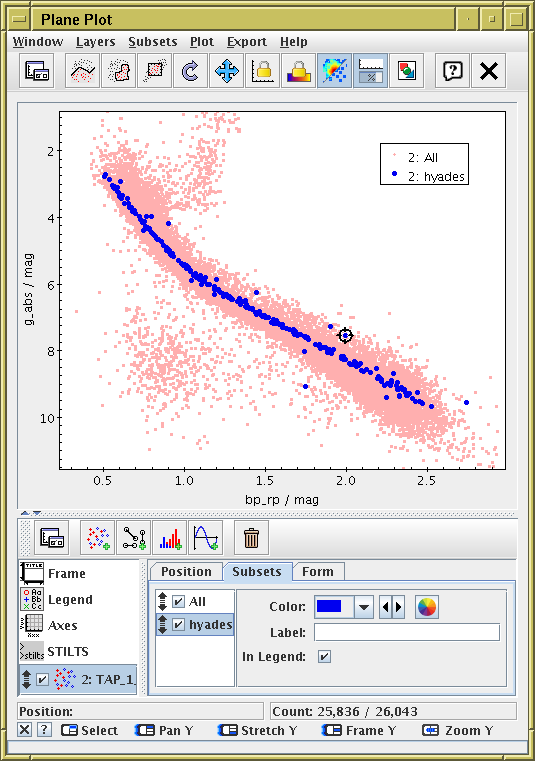
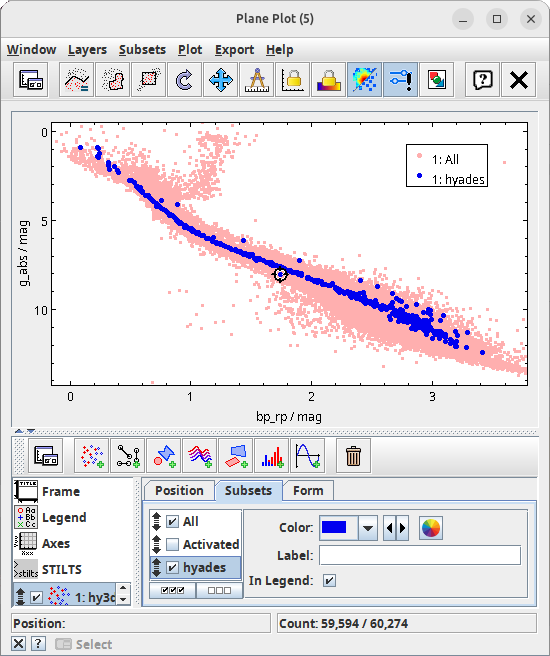
add activation actions to Hyades example

diff --git a/tctuto.tex b/tctuto.tex
@@ -292,7 +292,7 @@ So we need to make a more sophisticated query using TAP.
   \item Select table {\tt gaiadr3.gaia\_source} and look at
         \lab{Table} and \lab{Columns} tabs,
         to see information about available columns.
-  \item Look in the \lab{Service} tab to see information about the service
+% \item Look in the \lab{Service} tab to see information about the service
   \item Look in the \lab{Hints} tab for a very basic ADQL cheat sheet
   \item Type in to the bottom panel some very simple ADQL:\\
         ``{\tt SELECT TOP 10 ra, dec FROM gaiadr3.gaia\_source}''
@@ -359,7 +359,7 @@ TOPCAT's \tcmanref{jel}{\em expression language\/} can help.
         what functions TOPCAT provides
         (they are \tcmanref{generalJel}{listed in the manual} too).
   \item Look under the \lab{Gaia} entry to see astrometry-specific items
-  \item We will use the {\tt astromUVW} and maybe {\tt icrsToGal}
+  \item We will use the {\tt astromUVW(astrom6)} and maybe {\tt icrsToGal}
         and {\tt astromXYZ} functions.
         The \lab{Examples} items in the function documentation are useful;
         for use with the {\tt gaia\_source} catalogue,
@@ -398,7 +398,7 @@ TOPCAT's \tcmanref{jel}{\em expression language\/} can help.
         \entry{XYZ Vector}{uvw}.
   \item Select \entry{Mode}{\buttimg{MODE_DENSITY.png}density}
         in the \lab{Form} tab.  You can change the colour map to taste
-        using the \lab{Density Shader} selector.
+        using the \lab{Shader} selector.
   \item Now, navigate through the cube to find an overdensity.
         This takes a bit of practice, but it's fun once you work out how.
         Click the little \buttimg{navig_help.png} button at bottom left
@@ -410,7 +410,7 @@ TOPCAT's \tcmanref{jel}{\em expression language\/} can help.
         (about 200 of them? see the count at the bottom right of the window)
         are visible inside the wireframe --- these should be the Hyades,
         which all have similar 3D velocities.
-  \item Use \mb{spoints5.png}{Subsets}{Subset From Visible},
+  \item Use \mb{spoints5.png}{Subsets}{Subset From Visible} action,
         \entry{Name}{hyades}, \lab{Add Subset}.
   \end{enumerate}
 \end{minipage}
@@ -422,35 +422,35 @@ TOPCAT's \tcmanref{jel}{\em expression language\/} can help.
 
 
 \newpage
-\subsection{View positions}
 
-\begin{minipage}[t]{11cm}
+\begin{minipage}[t]{12cm}
+\raggedright
+
+\subsection{View positions}
+  \label{sec:hy-sky}
+
   \begin{enumerate}
   \item Go back and plot this subset on the sky
         (\mb{skyplot_button.png}{Graphics}{Sky Plot})
   \item Use the \lab{Subsets} tab to make sure that \lab{hyades}
         and background objects (\lab{All}) are plotted in different colours.
         You might want to set \entry{Shading Mode}{flat} and
-        fiddle with marker size and shape for clarity.
+        fiddle with marker size and shape for clarity (in the \lab{Form} tab).
   \item To get an all-sky view,
         use the \buttimg{axes_button.png} \lab{Axes} control,
         \lab{Projection} tab, and change the \lab{Projection} selector
         from ``\lab{sin}'' to ``\lab{aitoff}''
   \item If you like, you can plot it in 3-d space as well:
-        \mb{plot2sphere.png}{Graphics}{Sphere Plot},\\
+        \mb{plot2sphere.png}{Graphics}{Sphere Plot},
         \entry{Lon}{ra},
         \entry{Lat}{dec},
         \entry{Radius}{1000./parallax}
+  \item Leave any plot windows open for later.
   \end{enumerate}
-\end{minipage}
-\begin{minipage}[t]{8cm}
-  \winfig{width=8cm}{hy_sky.png}
-\end{minipage}
+
+\vspace*{0.5cm}
 
 \subsection{Colour-magnitude diagram}
-
-\begin{minipage}[t]{11cm}
-  \raggedright
   \begin{enumerate}
   \item Plot a colour-magnitude diagram:
         \mb{planeplot_button.png}{Graphics}{Plane Plot}, \\
@@ -461,30 +461,64 @@ TOPCAT's \tcmanref{jel}{\em expression language\/} can help.
   \item Use the \lab{Subsets} tab to make sure that \lab{hyades}
         and background objects (\lab{All}) are plotted in different colours.
         Hyades should (mostly) sit on a nice tight main sequence!
-  \item There are a few outliers.
-        Click on them, see the position show up in the sky plot too.
-        In some cases, you can see by sky position that they are non-members.
-        Open the \mb{browser1.png}{Views}{Data Window}
-        and see that the relevant row is highlighted when
-        you click on a plotted point.
   \end{enumerate}
 
-  \vspace*{2cm}
-  \subsection*{Bonus}
-  \begin{itemize}
-    \item Try refining the selection by localising in position space
-          or HR space too.
-    \item What is the mean distance to the Hyades?
-    \item You can also investigate outliers using the
-          \mb{activate_butt}{Views}{Activation Actions} window.
-          Try the \lab{Display HiPS cutout} option or,
-          if you have Aladin desktop running,
-          \lab{Send Sky Coordinates}.
-    \item Can you find any other clusters in velocity space?
-  \end{itemize}
+\vspace*{0.5cm}
+
+\subsection{Investigate outliers}
+
+There are some sources sitting off the main sequence.
+We will try to find more information about these.
+
+\begin{enumerate}
+\item In the \lab{Subsets} tab hide the \lab{All} subset
+      leaving just the \lab{hyades} visible.
+\item Now click on an outlier.  A little round cursor will appear on it.
+      The same cursor will identify that source in any other plots it
+      appears in, e.g.\ the sky plot from section \ref{sec:hy-sky}.
+      In some cases you can see by sky position that the source is a
+      non-member.
+\item Open the \mb{browser1.png}{Views}{Data Window}
+      and see that the relevant row is highlighted when
+      you click on a plotted point.
+      This works the other way round too, as long as the point is visible.
+\item You can make all sorts of other things happen when you click on
+      a plotted point (or row in the table window) as well.
+      Open the \mb{activate_butt}{Views}{Activation Actions} window
+      to see how these are controlled.
+\item Check the checkbox for \lab{Display HiPS Cutout}
+      and click again on a plotted point --- a little window
+      should pop up with a sky image centered on that source.
+      Click on the \lab{Display HiPS Cutout} item to configure it better,
+      e.g.\ \entry{Field of View}{1 arcmin},
+      or select a different \lab{HiPS Survey} to supply the imagery,
+      then click again on a plotted point to see it working.
+\item If Aladin Desktop is running, try the
+      \lab{Send Sky Coordinates} option too which uses a
+      communication protocol called SAMP;
+      Aladin should re-center on the source you've clicked on.
+      Aladin Lite can do the same thing too, but a bit of extra
+      setup is required to make it listen to SAMP.
+\end{enumerate}
+
+% \subsection*{Bonus}
+% \begin{itemize}
+%   \item Try refining the selection by localising in position space
+%         or HR space too.
+%   \item What is the mean distance to the Hyades?
+%   \item Can you find any other clusters in velocity space?
+% \end{itemize}
+
 \end{minipage}
-\begin{minipage}[t]{8cm}
-  \winfig{width=8cm}{hy_cmd.png}
+\begin{minipage}[t]{7.5cm}
+  \vspace*{-0.5cm}
+  \winfig{width=7.5cm}{hy_sky.png}
+  \\[0.5cm]
+
+  \winfig{width=7.5cm}{hy_cmd.png}
+  \\[0.5cm]
+
+  \winfig{width=7.5cm}{hy_activate.png}
 \end{minipage}
 
 \newpage
